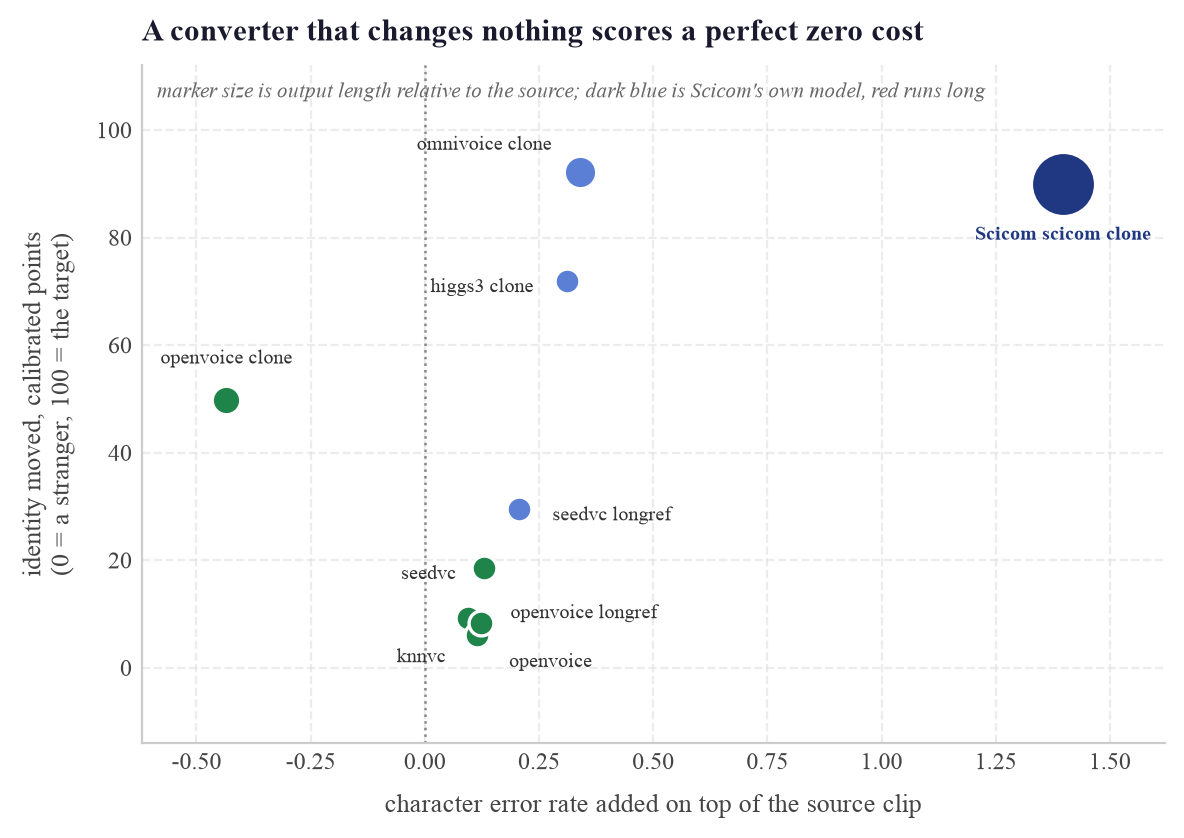
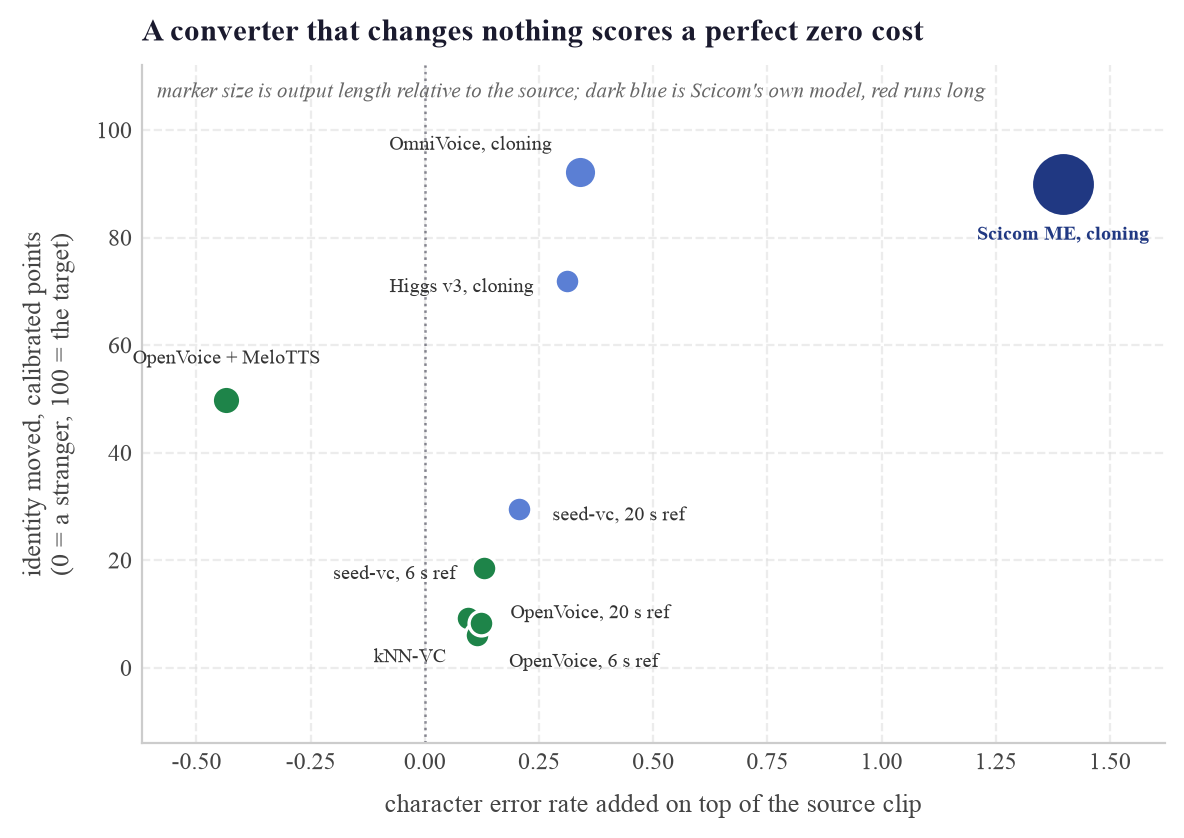
Ragged-right wrapped columns, and real names in the voice-conversion figure
A p{} column is justified, so "Scicom Multilingual-" got stretched across the full column width
and left a canyon between the two words in Table 9. All eight wrapped columns now use a
ragged-right column type.

Rendering that page also caught the voice-conversion figure labelling a point "Scicom scicom
clone", because the ours-prefix was added to a key that already began with scicom. The figure
now uses display names throughout: Scicom ME cloning, Higgs v3 cloning, OpenVoice 6 s and 20 s
ref, seed-vc, kNN-VC.

It also dropped scicom_untargeted_oldnames, which used a speaker name absent from the model's
inventory so a quarter of its grid was unconditioned. The corrected run is scicom_untargeted.
Plotting both would have shown the same system twice, once broken.

diff --git a/preprint/plot_figs.py b/preprint/plot_figs.py
@@ -378,32 +378,48 @@ def fig_vc():
     ceil = cal["ceiling_same_speaker"]["mean"]
     scale = lambda c: (c - floor) / (ceil - floor)
 
+    # Display names, and one exclusion. `scicom_untargeted_oldnames` used a speaker name that
+    # is not in the model's inventory, so a quarter of its grid was unconditioned; the corrected
+    # run is `scicom_untargeted`. Plotting both would show the same system twice, once broken.
+    NAMES = {"scicom_clone": "Scicom ME, cloning",
+             "scicom_untargeted": "Scicom ME, speaker name",
+             "higgs3_clone": "Higgs v3, cloning",
+             "omnivoice_clone": "OmniVoice, cloning",
+             "openvoice_clone": "OpenVoice + MeloTTS",
+             "openvoice_longref": "OpenVoice, 20 s ref",
+             "openvoice": "OpenVoice, 6 s ref",
+             "seedvc_longref": "seed-vc, 20 s ref",
+             "seedvc": "seed-vc, 6 s ref",
+             "knnvc": "kNN-VC"}
     pts = []
     for name, v in vc.items():
+        if name.endswith("_oldnames"):
+            continue
         if not isinstance(v, dict) or v.get("n", 0) < 40:
             continue
         st, ss, d = v.get("mean_sim_tgt"), v.get("mean_sim_src"), v.get("mean_d_cer")
         if st is None or ss is None or d is None:
             continue
-        pts.append((name.replace("_", " "), d, (scale(st) - scale(ss)) * 100,
-                    v.get("median_dur_ratio") or 1.0))
+        pts.append((NAMES.get(name, name.replace("_", " ")), d,
+                    (scale(st) - scale(ss)) * 100, v.get("median_dur_ratio") or 1.0))
     pts.sort(key=lambda r: r[1])
 
     OFFSETS = {
-        "knnvc": (-8, -16, "right"),
-        "openvoice": (10, -16, "left"),
-        "openvoice longref": (12, 6, "left"),
-        "seedvc": (-10, -4, "right"),
-        "seedvc longref": (12, -4, "left"),
-        "higgs3 clone": (-12, -4, "right"),
-        "omnivoice clone": (-10, 8, "right"),
-        "scicom clone": (0, -20, "center"),
-        "openvoice clone": (0, 13, "center"),
+        "kNN-VC": (-8, -16, "right"),
+        "OpenVoice, 6 s ref": (10, -16, "left"),
+        "OpenVoice, 20 s ref": (12, 6, "left"),
+        "seed-vc, 6 s ref": (-10, -4, "right"),
+        "seed-vc, 20 s ref": (12, -4, "left"),
+        "Higgs v3, cloning": (-12, -4, "right"),
+        "OmniVoice, cloning": (-10, 8, "right"),
+        "Scicom ME, cloning": (0, -20, "center"),
+        "Scicom ME, speaker name": (0, 13, "center"),
+        "OpenVoice + MeloTTS": (0, 13, "center"),
     }
 
     fig, ax = plt.subplots(figsize=(6.6, 4.4), dpi=DPI)
     for i, (name, d, gap, dur) in enumerate(pts):
-        ours = name.startswith("scicom")
+        ours = name.startswith("Scicom")
         color = OURS if ours else ("#922b21" if dur > 1.5 else
                                    ("#1e8449" if d < 0.15 else "#5b7fd4"))
         ax.scatter([d], [gap], s=80 + 200 * max(dur - 1, 0), c=color, edgecolors="white",
@@ -411,7 +427,7 @@ def fig_vc():
         # Three systems land within two calibrated points of each other, so alternating above
         # and below is not enough; those get pushed sideways by hand.
         dx, dy, ha = OFFSETS.get(name, (0, 13, "center"))
-        ax.annotate("Scicom " + name if ours else name, (d, gap),
+        ax.annotate(name, (d, gap),
                     textcoords="offset points", xytext=(dx, dy), ha=ha, fontsize=7.2,
                     color=OURS if ours else INK,
                     fontweight="bold" if ours else "normal", zorder=6)

diff --git a/preprint/neurips_2023.tex b/preprint/neurips_2023.tex
@@ -48,6 +48,9 @@
 % One type size for every table in the paper, and tighter columns. Scaling each table to fit
 % gives each one its own size, which is what makes a document look like it changed fonts.
 \setlength{\tabcolsep}{4pt}
+% A p{} column is justified, so a two-word line gets stretched across the whole column and
+% leaves a canyon between the words. Every wrapped column in this paper is ragged right.
+\newcolumntype{L}[1]{>{\raggedright\arraybackslash}p{#1}}
 
 \hypersetup{
 pdftitle={How to Reduce Whisper Hallucination},
@@ -147,7 +150,7 @@ Malay fine-tunes are built on \texttt{large-v2} and \texttt{turbo} respectively,
 thirty-two.}
 \label{tab:models}
 \footnotesize
-\begin{tabular}{lllp{0.16\linewidth}}
+\begin{tabular}{lllL{0.16\linewidth}}
 \toprule
 \textbf{label} & \multicolumn{2}{l}{\textbf{identifier}} & \textbf{what it is} \\
 \midrule
@@ -300,7 +303,7 @@ emitting text, which is the failure mode of every aggressive fine-tune we measur
 separate build that is disjoint by construction, verified before any training run.}
 \label{tab:arms}
 \footnotesize
-\begin{tabular}{lp{0.34\linewidth}rl}
+\begin{tabular}{lL{0.34\linewidth}rl}
 \toprule
 \textbf{arm} & \textbf{source} & \textbf{clips} & \textbf{correct output} \\
 \midrule
@@ -564,7 +567,7 @@ phrases across 100 languages.
 four are vendored in the release so the merge is reproducible.}
 \label{tab:lexsources}
 \footnotesize
-\begin{tabular}{p{0.34\linewidth}p{0.26\linewidth}rl}
+\begin{tabular}{L{0.34\linewidth}L{0.26\linewidth}rl}
 \toprule
 \textbf{source} & \textbf{what it is} & \textbf{phrases} & \textbf{licence} \\
 \midrule
@@ -619,7 +622,7 @@ than it looks.
 \caption{Text-to-speech candidates. Round-trip character error rate, lower is better.}
 \label{tab:tts}
 \footnotesize
-\begin{tabular}{p{0.32\linewidth}rrrll}
+\begin{tabular}{L{0.32\linewidth}rrrll}
 \toprule
  & \textbf{mean CER} & \textbf{median} & \textbf{wins} & \textbf{languages} & \textbf{voices} \\
 \midrule
@@ -662,7 +665,7 @@ The obvious fix, reference cloning, is the wrong one.
 Lower cosine means better separated voices.}
 \label{tab:diversity}
 \footnotesize
-\begin{tabular}{p{0.30\linewidth}lll}
+\begin{tabular}{L{0.30\linewidth}lll}
 \toprule
 \textbf{route} & \textbf{yield mk / gu / it} & \textbf{median CER} & \textbf{different-voice cosine} \\
 \midrule
@@ -719,7 +722,7 @@ masked out of the loss, so loss falls only on the transcript and the final end-o
 test split stays held out.}
 \label{tab:trainsets}
 \footnotesize
-\begin{tabular}{p{0.26\linewidth}rrlp{0.28\linewidth}}
+\begin{tabular}{L{0.26\linewidth}rrlL{0.28\linewidth}}
 \toprule
 \textbf{source} & \textbf{clips} & \textbf{hours} & \textbf{target} & \textbf{teaches} \\
 \midrule
